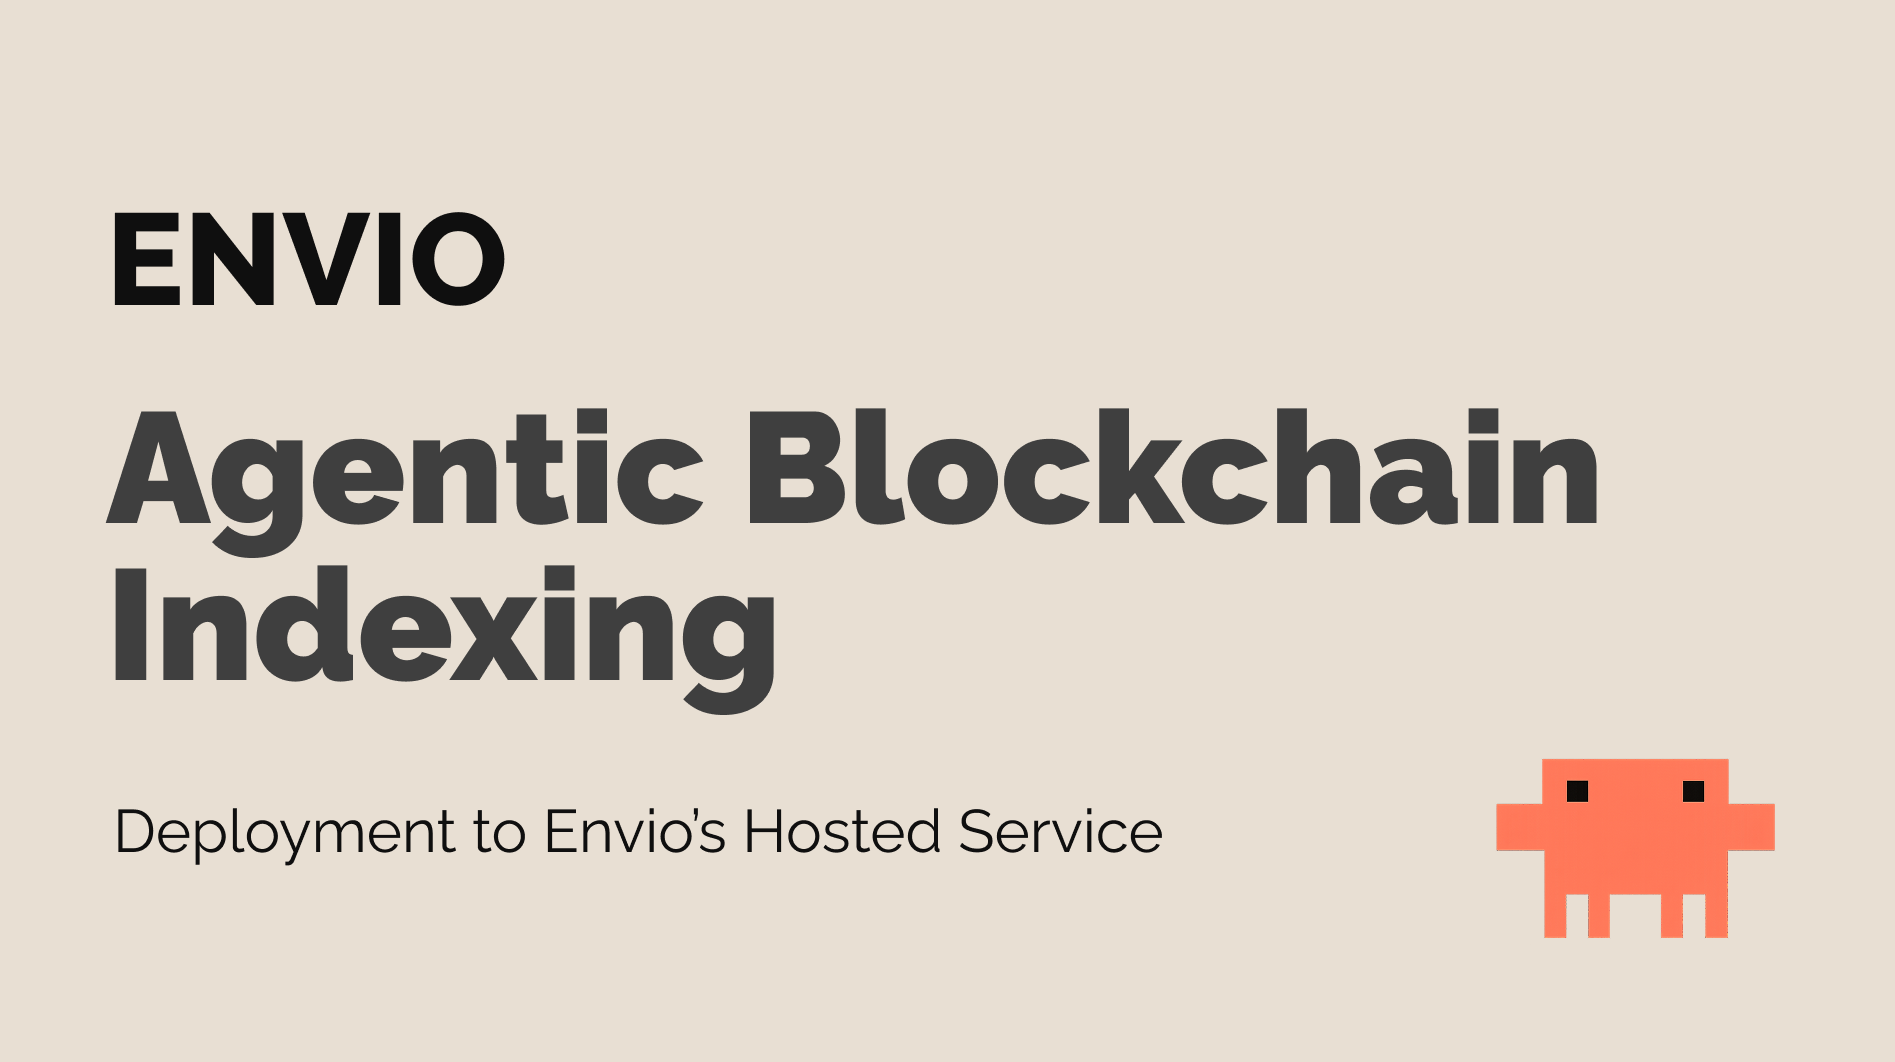
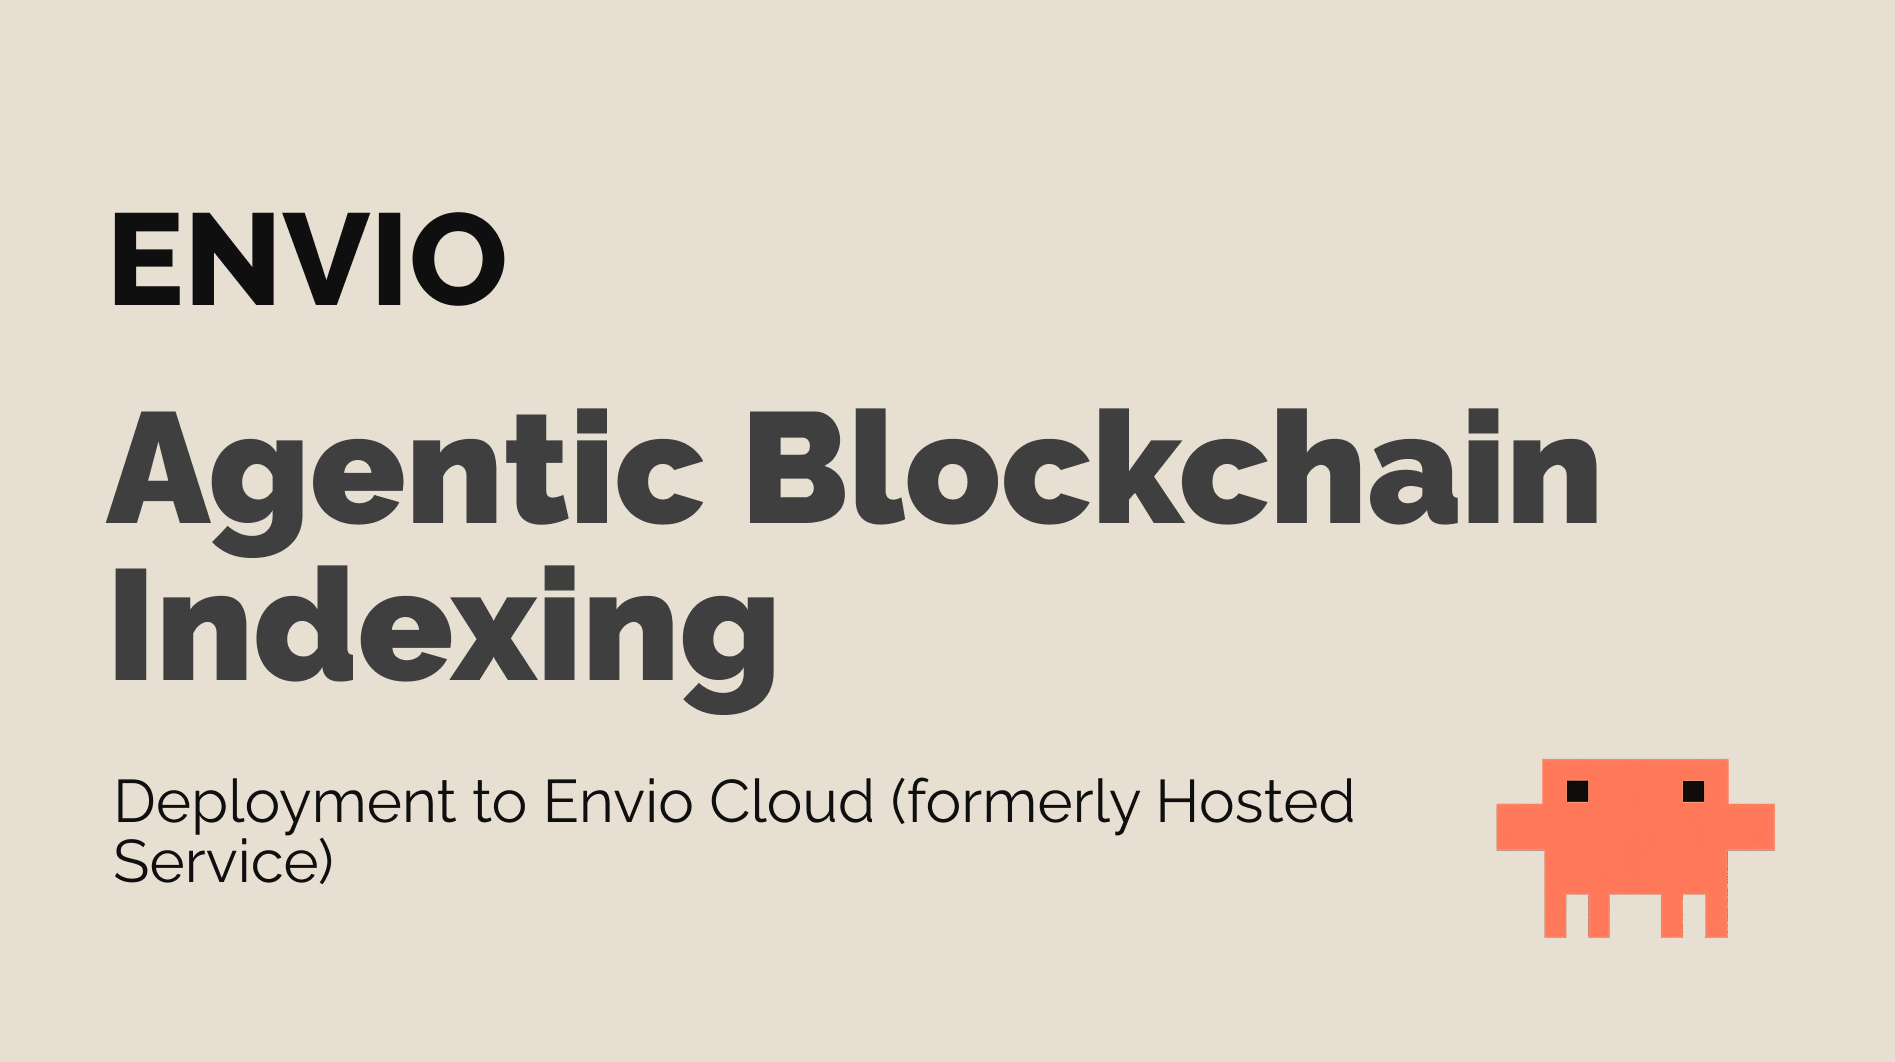
chore: rename envio-hs to envio-cloud in agentic blog and update cover image

Changed region(s): [[0.0623, 0.7147, 0.7161, 0.839]]

diff --git a/blog/2026-03-20-agentic-blockchain-indexing.md b/blog/2026-03-20-agentic-blockchain-indexing.md
@@ -13,7 +13,7 @@ image: /blog-assets/agentic-blockchain-indexing.png
 
 Agentic development works best when an AI agent can take a single prompt and run with it, end-to-end, without handing back to a human at every step. For blockchain indexing, that's exactly what we've built at Envio.
 
-With Envio's hosted service CLI (`envio-hs`) and HyperIndex, an agent can scaffold a production-ready indexer, configure it for any EVM-compatible chain, push it to GitHub, and deploy it to Envio's hosted service, without a human ever touching a config file.
+With Envio's hosted service CLI (`envio-cloud`) and HyperIndex, an agent can scaffold a production-ready indexer, configure it for any EVM-compatible chain, push it to GitHub, and deploy it to Envio's hosted service, without a human ever touching a config file.
 
 **⚡ The result: 400,000 events indexed in ~20 seconds**
 
@@ -25,18 +25,18 @@ With Envio's hosted service CLI (`envio-hs`) and HyperIndex, an agent can scaffo
 HyperIndex is the default indexing framework for agentic development with Envio’s hosted service CLI tool and comprehensive Claude skills. That means when an AI agent needs to spin up a blockchain data pipeline, HyperIndex is the go-to solution.
 
 
-## The Hosted Service CLI: `envio-hs`
+## The Hosted Service CLI: `envio-cloud`
 
-The [envio-hs](https://www.npmjs.com/package/envio-hs) CLI is the command-line interface for Envio's hosted service, the managed infrastructure layer that runs your HyperIndex indexers in production.
+The [envio-cloud](https://www.npmjs.com/package/envio-cloud) CLI is the command-line interface for Envio's hosted service, the managed infrastructure layer that runs your HyperIndex indexers in production.
 
 With it you can:
 
 
 
-* Authenticate via GitHub (`envio-hs login`)
-* Register a new indexer pointing to your GitHub repo (`envio-hs indexer add`)
-* Monitor sync progress and deployment status in real-time (`envio-hs deployment status`, `envio-hs deployment metrics`)
-* Promote deployments to production (`envio-hs deployment promote`)
+* Authenticate via GitHub (`envio-cloud login`)
+* Register a new indexer pointing to your GitHub repo (`envio-cloud indexer add`)
+* Monitor sync progress and deployment status in real-time (`envio-cloud deployment status`, `envio-cloud deployment metrics`)
+* Promote deployments to production (`envio-cloud deployment promote`)
 * Pull JSON output for any command (`-o json`), making it fully scriptable and agent-friendly
 
 *⭐ No dashboard required. Everything that matters is exposed through the CLI.*
@@ -113,8 +113,8 @@ Then grant the bot access to the `wsteth-monad-indexer-demo` repository.
 
 
 ```
-pnpx envio-hs login
-pnpx envio-hs indexer add
+pnpx envio-cloud login
+pnpx envio-cloud indexer add
   --name wsteth-monad-indexer-demo
   --repo wsteth-monad-indexer-demo
   --description "wstETH ERC20 indexer on Monad" 
@@ -129,8 +129,8 @@ pnpx envio-hs indexer add
 
 
 ```
-pnpx envio-hs indexer get wsteth-monad-indexer-demo {org}
-pnpx envio-hs deployment status wsteth-monad-indexer-demo <commit-hash> {org}
+pnpx envio-cloud indexer get wsteth-monad-indexer-demo {org}
+pnpx envio-cloud deployment status wsteth-monad-indexer-demo <commit-hash> {org}
 ```
 
 
@@ -152,7 +152,7 @@ See the full walkthrough on [Loom](https://www.loom.com/share/09cdac43b18f4143ad
 
 The blockchain data layer has historically been one of the friction points in agentic workflows. Spinning up an indexer meant reading docs, manually editing configs, managing infrastructure, and waiting for sync.
 
-HyperIndex and the `envio-hs` CLI change that equation. Every step in the workflow above is scriptable, CLI-driven, and designed to be executed by an agent without human intervention. The JSON output flag (`-o json`) makes it straightforward to pipe deployment status into downstream logic. The GitHub-native deployment flow means agents that can commit code can deploy indexers.
+HyperIndex and the `envio-cloud` CLI change that equation. Every step in the workflow above is scriptable, CLI-driven, and designed to be executed by an agent without human intervention. The JSON output flag (`-o json`) makes it straightforward to pipe deployment status into downstream logic. The GitHub-native deployment flow means agents that can commit code can deploy indexers.
 
 This is what it looks like in practice for HyperIndex to be the default indexing framework for agentic development.
 
@@ -164,7 +164,7 @@ Install the hosted service CLI:
 
 
 ```
-npm install -g envio-hs
+npm install -g envio-cloud
 ```
 
 
